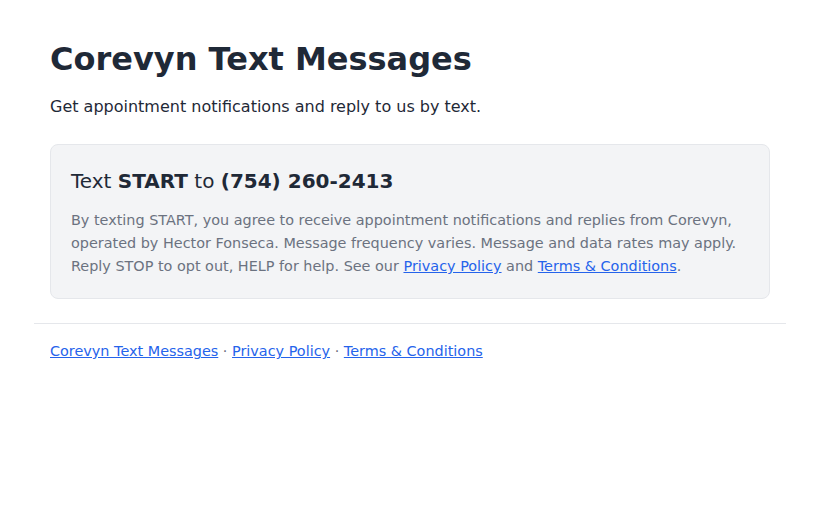
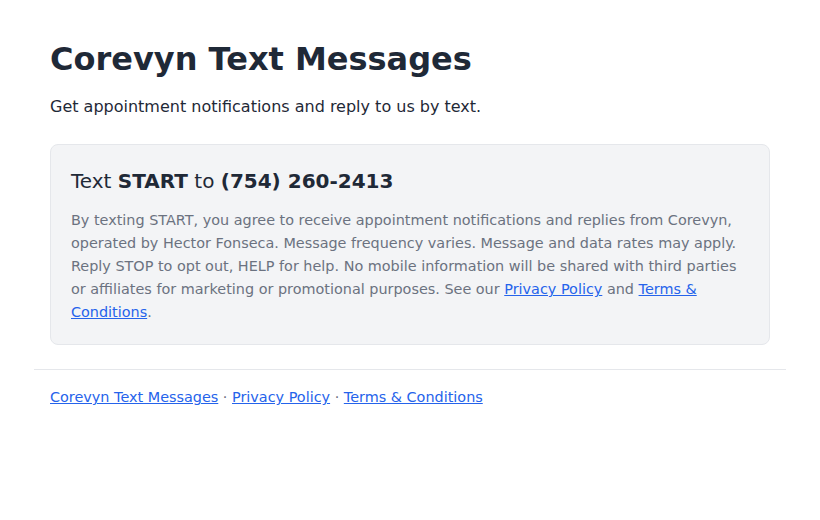
Updated info

Changed region(s): [[0.061, 0.4923, 0.9146, 0.6154], [0.061, 0.6462, 0.6098, 0.7077], [0.061, 0.7385, 0.5793, 0.8]]

diff --git a/privacy.html b/privacy.html
@@ -9,7 +9,7 @@
 <body>
   <main>
     <h1>Privacy Policy</h1>
-    <p class="meta">Effective October 20, 2026</p>
+    <p class="meta">Effective October 21, 2026</p>
 
     <p>This Privacy Policy explains how Hector Fonseca ("we", "us"), a sole proprietor and the
       registered brand for the Corevyn text message program, collects, uses and protects information
@@ -35,13 +35,16 @@
     </ul>
 
     <h2>How we share your information</h2>
-    <p><strong>We do not sell or share your SMS opt-in data or personal information with third parties
-      for marketing purposes.</strong></p>
+    <p>No mobile information will be shared with third parties or affiliates for marketing or promotional
+      purposes. Text messaging opt-in data and consent are never shared with any third party.</p>
     <p>We share your phone number and message content only with the messaging provider and mobile
       carriers that deliver our text messages, only as needed to deliver them, or when required by law.</p>
 
     <h2>How we protect your information</h2>
     <p>Phone numbers and message content are stored encrypted, and access is limited to authorized users.</p>
+
+    <h2>Message frequency and rates</h2>
+    <p>Message frequency varies. Message and data rates may apply.</p>
 
     <h2>Your choices</h2>
     <p>Reply <strong>STOP</strong> to any message to stop receiving text messages. Reply <strong>START</strong>

diff --git a/index.html b/index.html
@@ -15,7 +15,8 @@
       <p class="cta-line">Text <strong>START</strong> to <strong>(754) 260-2413</strong></p>
       <p class="disclosure">By texting START, you agree to receive appointment notifications and replies
         from Corevyn, operated by Hector Fonseca. Message frequency varies. Message and data rates
-        may apply. Reply STOP to opt out, HELP for help. See our
+        may apply. Reply STOP to opt out, HELP for help. No mobile information will be shared with
+        third parties or affiliates for marketing or promotional purposes. See our
         <a href="privacy.html">Privacy Policy</a> and <a href="terms.html">Terms &amp; Conditions</a>.</p>
     </div>
   </main>
